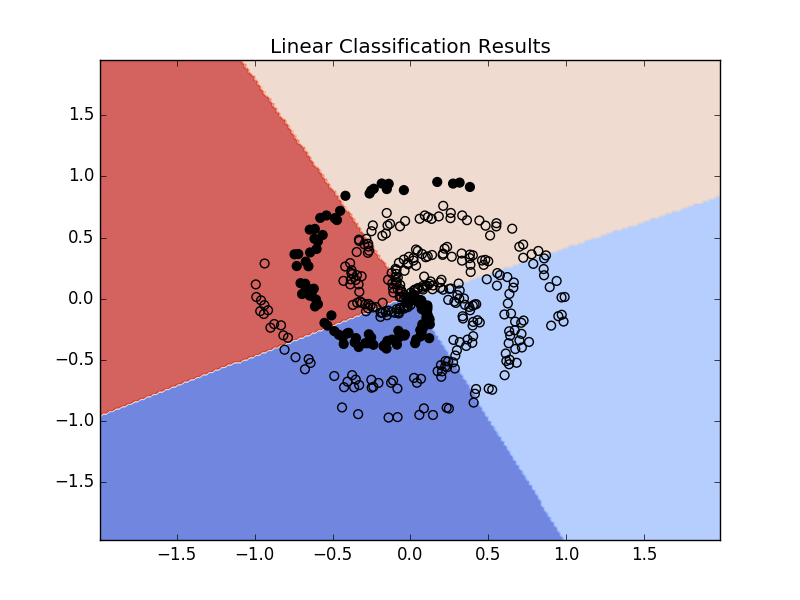
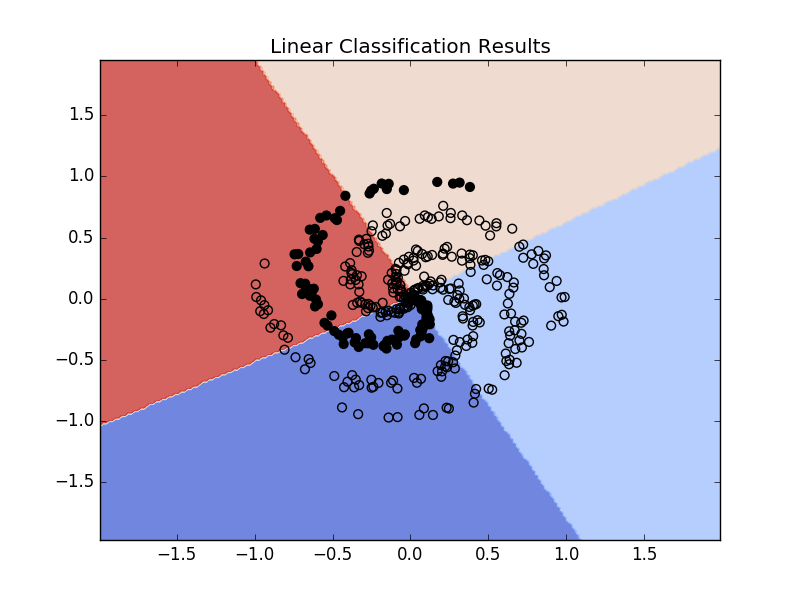
problem 6 WIP

diff --git a/spiral_classifier.py b/spiral_classifier.py
@@ -45,7 +45,8 @@ def main():
         plot_spiral_and_predicted_class(linear_position_array, linear_class_array, linear_model, "linear.png", "Linear Classification Results")
 
     else:
-        non_linear_classifier(position_array, class_array, 4)
+        nonlinear_position_array, nonlinear_class_array, nonlinear_model = non_linear_classifier(position_array, class_array, 4)
+        plot_spiral_and_predicted_class(nonlinear_position_array, nonlinear_class_array, nonlinear_model, "nonlinear.png", "Nonlinear Classification Results")
 
 
 
@@ -74,14 +75,14 @@ def linear_classifier(position_array, class_array, n_classes):
         # and 2 for 2 input nodes (x and y coordinates)
 
         net = tflearn.fully_connected(net, n_classes, activation='softmax') # layer with 4 nodes and softmax
-        #net = tflearn.fully_connected(net, 1, activation='softmax') # 1 output notes
         net = tflearn.regression(net, loss='categorical_crossentropy') #regression with categorical_crossentropy
 
         # Define model
         model = tflearn.DNN(net)
-        # Start training (apply gradient descent algorithm)
         new_class_array = np.zeros((len(class_array), 4))
         index = 0
+
+        #change to be 4 dimensional
         for x in class_array:
             if x == 0:
                 new_class_array[index] = [1,0,0,0]
@@ -93,8 +94,8 @@ def linear_classifier(position_array, class_array, n_classes):
                 new_class_array[index] = [0,0,0,1]
             index +=1 
 
-
-        model.fit(position_array, new_class_array,batch_size=10, show_metric=True, snapshot_step=1)
+        # Start training (apply gradient descent algorithm)
+        model.fit(position_array, new_class_array, n_epoch=10, batch_size=10, show_metric=True, snapshot_step=1)
         return position_array, new_class_array, model
 
 
@@ -115,8 +116,38 @@ def non_linear_classifier(position_array, class_array, n_classes):
     :param n_classes: an integer that is the number of classes your data has
     """
     with tf.Graph().as_default():
-        # YOUR CODE FOR PROBLEM 6C GOES HERE:
-        pass
+        # YOUR CODE FOR PROBLEM 6C GOES HERE
+            # Build neural network
+        net = tflearn.input_data(shape=[None, 2])
+        # 'None' always has to be the first parameter in shape because it tells
+        # tensor flow that the number of data points we have can be variable
+        # and 2 for 2 input nodes (x and y coordinates)
+        #sgd = tflearn.optimizers.SGD(learning_rate=2.0, lr_decay=0.5, decay_step=100)
+
+        net = tflearn.fully_connected(net, 40000, activation='relu') # 20,0000 nodes
+        net = tflearn.fully_connected(net, n_classes, activation='softmax') # layer with 4 nodes and softmax
+        net = tflearn.regression(net, loss='categorical_crossentropy') #regression with categorical_crossentropy
+
+        # Define model
+        model = tflearn.DNN(net)
+        new_class_array = np.zeros((len(class_array), 4))
+        index = 0
+
+        #change to be four dimensional
+        for x in class_array:
+            if x == 0:
+                new_class_array[index] = [1,0,0,0]
+            elif x == 1:
+                new_class_array[index] = [0,1,0,0]
+            elif x == 2:
+                 new_class_array[index]= [0,0,1,0]
+            elif x == 3:
+                new_class_array[index] = [0,0,0,1]
+            index +=1 
+
+        # Start training (apply gradient descent algorithm)
+        model.fit(position_array, new_class_array, n_epoch=10, batch_size=10, show_metric=True, snapshot_step=1)
+        return position_array, new_class_array, model
 
 
 def plot_spiral_and_predicted_class(position_array, class_array, model, output_file_name, title):
